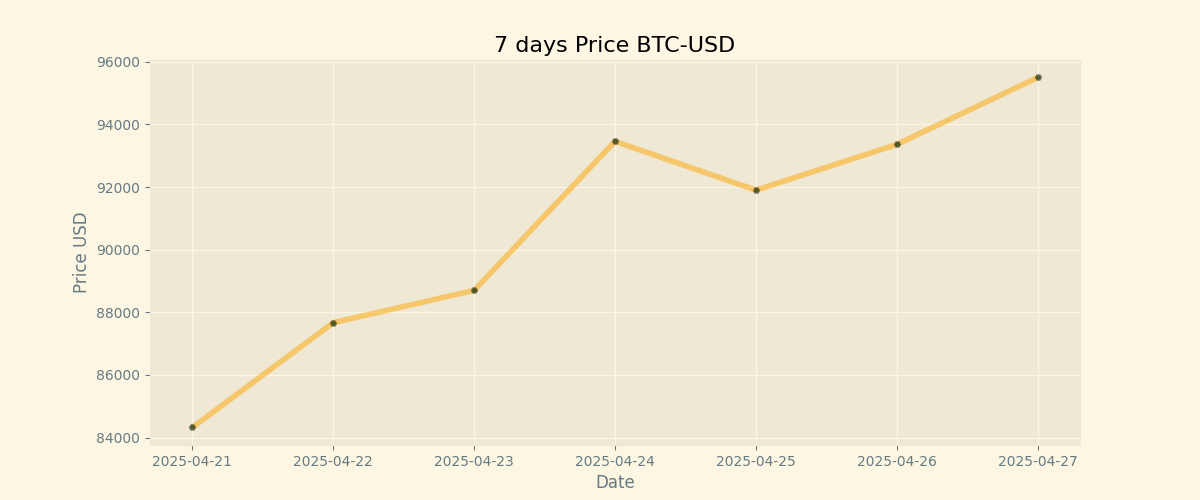
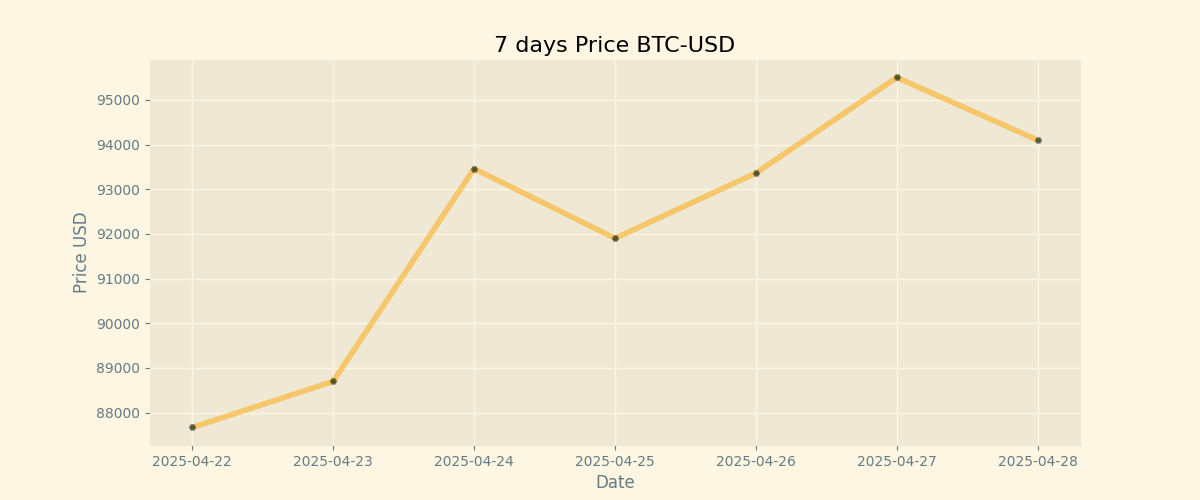
Duty Updates 2025-04-28

diff --git a/README.md b/README.md
@@ -9,8 +9,8 @@
 
 | Currency | Price           |
 | -------- | --------------- |
-| **BTC**  | **$ 95500.0** |
-| **ETH**  | **$ 1790.01** |
+| **BTC**  | **$ 94097.65** |
+| **ETH**  | **$ 1850.0** |
 
 ## BTC chart
 
